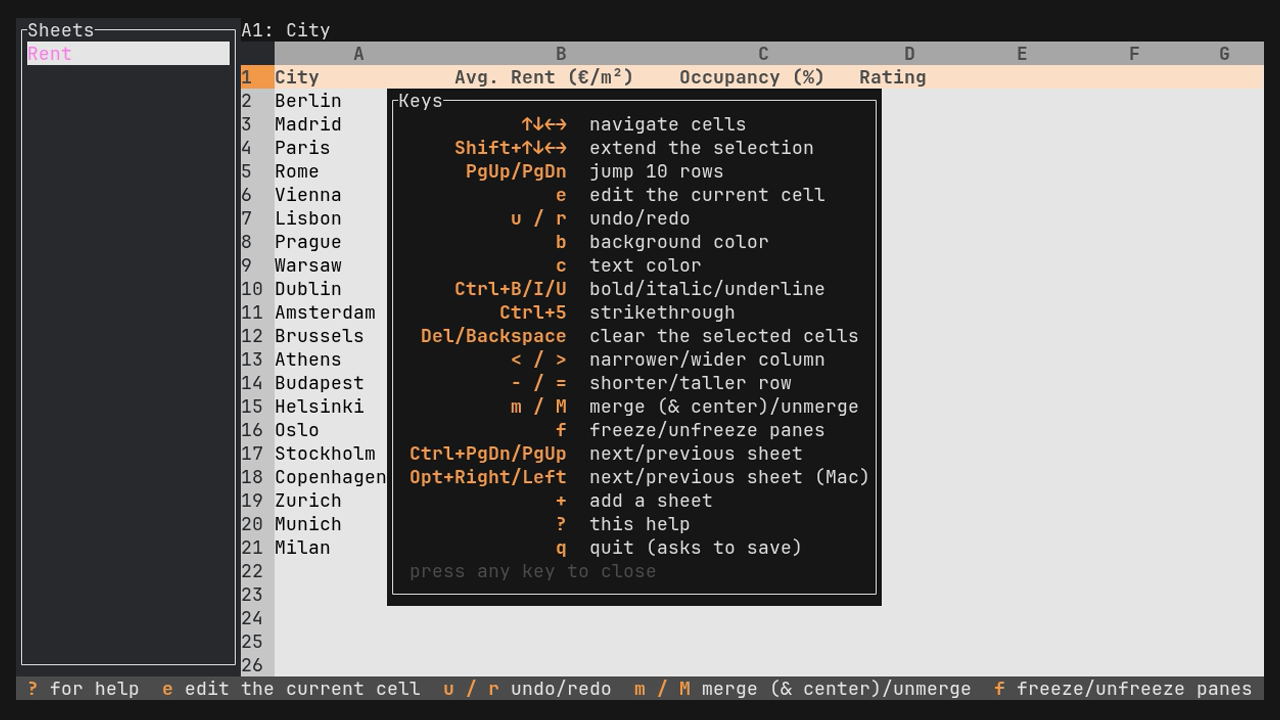
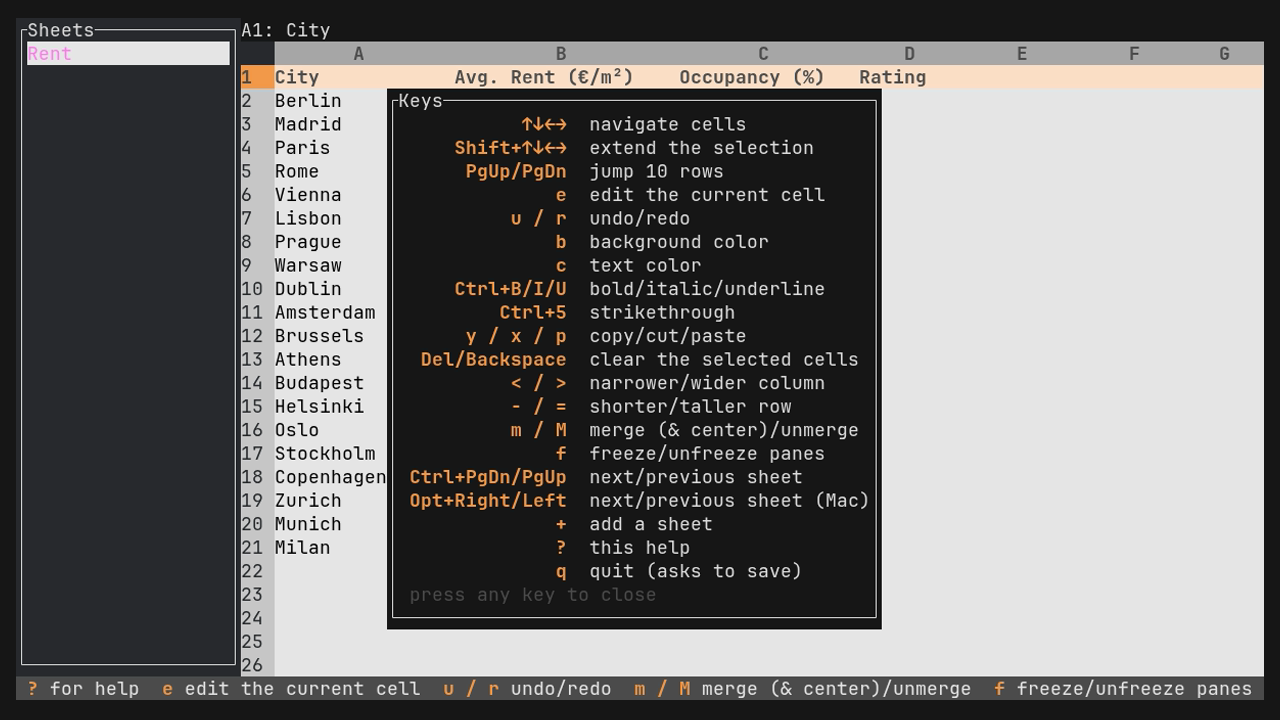
ADD: Copy, cut and paste (y/x/p, Ctrl+C/X/V)

Changed region(s): [[0.2812, 0.4583, 0.6875, 0.8861]]

diff --git a/src/main.rs b/src/main.rs
@@ -16,7 +16,7 @@ use ironcalc::{
         expressions::utils::number_to_column,
         new_empty::APPLICATION,
         types::{HorizontalAlignment, MergedCell},
-        Model, UserModel, COLUMN_WIDTH_FACTOR,
+        ClipboardData, Model, UserModel, COLUMN_WIDTH_FACTOR,
     },
     export::save_xlsx_to_writer,
     import::load_from_xlsx,
@@ -57,7 +57,7 @@ enum CursorMode {
     Help,
 }
 
-const HELP: [(&str, &str); 19] = [
+const HELP: [(&str, &str); 20] = [
     ("↑↓←→", "navigate cells"),
     ("Shift+↑↓←→", "extend the selection"),
     ("PgUp/PgDn", "jump 10 rows"),
@@ -67,6 +67,7 @@ const HELP: [(&str, &str); 19] = [
     ("c", "text color"),
     ("Ctrl+B/I/U", "bold/italic/underline"),
     ("Ctrl+5", "strikethrough"),
+    ("y / x / p", "copy/cut/paste"),
     ("Del/Backspace", "clear the selected cells"),
     ("< / >", "narrower/wider column"),
     ("- / =", "shorter/taller row"),
@@ -180,6 +181,8 @@ fn main() -> Result<(), Box<dyn std::error::Error>> {
     let mut color_picker_index = 0;
     // Shown in the status bar until the next key press (e.g. why a merge failed)
     let mut status_message: Option<String> = None;
+    // What `y`/`x` took, for `p`
+    let mut clipboard: Option<Copied> = None;
 
     let (tx, rx) = mpsc::channel();
     let tick_rate = Duration::from_millis(200);
@@ -981,7 +984,58 @@ fn main() -> Result<(), Box<dyn std::error::Error>> {
                         };
                         let ctrl = event.modifiers.contains(KeyModifiers::CONTROL);
                         let alt = event.modifiers.contains(KeyModifiers::ALT);
+                        // Vim style: y(ank) copies, x cuts, p pastes. Ctrl+C/X/V too.
+                        let clip = match (event.code, ctrl) {
+                            (KeyCode::Char('y'), false) | (KeyCode::Char('c'), true) => Some('y'),
+                            (KeyCode::Char('x'), _) => Some('x'),
+                            (KeyCode::Char('p'), false) | (KeyCode::Char('v'), true) => Some('p'),
+                            _ => None,
+                        };
                         match event.code {
+                            _ if clip.is_some() => {
+                                let sheet = selected_sheet as u32;
+                                let anchor = (selected_row_index as i32, selected_column_index);
+                                let result = if clip == Some('p') {
+                                    match &clipboard {
+                                        Some(c) => {
+                                            let cut = c.cut;
+                                            paste(&mut model, sheet, anchor, c).map(|_| {
+                                                // A cut can be pasted only once
+                                                if cut {
+                                                    clipboard = None;
+                                                }
+                                            })
+                                        }
+                                        None => Err("Nothing to paste".to_string()),
+                                    }
+                                } else {
+                                    let area = selected_area(
+                                        sheet,
+                                        (selected_row_index as i32, end_row as i32),
+                                        (selected_column_index, end_column),
+                                        whole_row,
+                                        whole_column,
+                                        &merged_cells,
+                                    );
+                                    copy_area(&mut model, anchor, &area, clip == Some('x')).map(
+                                        |c| {
+                                            to_system_clipboard(&c.text);
+                                            status_message = Some(
+                                                if c.cut {
+                                                    "Cut: press p to paste"
+                                                } else {
+                                                    "Copied"
+                                                }
+                                                .to_string(),
+                                            );
+                                            clipboard = Some(c);
+                                        },
+                                    )
+                                };
+                                if let Err(message) = result {
+                                    status_message = Some(message);
+                                }
+                            }
                             KeyCode::Char('q') => {
                                 popup_open = true;
                                 cursor_mode = CursorMode::Popup;
@@ -1644,6 +1698,66 @@ fn selected_area(
     }
 }
 
+/// What `y`/`x` took, ready for `p`.
+struct Copied {
+    sheet: u32,
+    range: (i32, i32, i32, i32),
+    data: ClipboardData,
+    /// Tab separated values, for the system clipboard
+    text: String,
+    cut: bool,
+}
+
+/// Copies (or marks for cutting) `area`. The engine copies its own selection,
+/// so that is set first. A cut only removes the source when it is pasted.
+fn copy_area(
+    model: &mut UserModel,
+    anchor: (i32, i32),
+    area: &Area,
+    cut: bool,
+) -> Result<Copied, String> {
+    model.set_selected_sheet(area.sheet)?;
+    model.set_selected_cell(anchor.0, anchor.1)?;
+    model.set_selected_range(
+        area.row,
+        area.column,
+        area.row + area.height - 1,
+        area.column + area.width - 1,
+    )?;
+    // The engine's `Clipboard` has private fields: read them through serde
+    let mut json = serde_json::to_value(model.copy_to_clipboard()?).map_err(|e| e.to_string())?;
+    let mut field = |name: &str| json[name].take();
+    let err = |e: serde_json::Error| e.to_string();
+    Ok(Copied {
+        sheet: serde_json::from_value(field("sheet")).map_err(err)?,
+        range: serde_json::from_value(field("range")).map_err(err)?,
+        data: serde_json::from_value(field("data")).map_err(err)?,
+        text: field("csv").as_str().unwrap_or_default().to_string(),
+        cut,
+    })
+}
+
+/// Pastes at `anchor`, adjusting references like Excel does.
+fn paste(
+    model: &mut UserModel,
+    sheet: u32,
+    anchor: (i32, i32),
+    copied: &Copied,
+) -> Result<(), String> {
+    model.set_selected_sheet(sheet)?;
+    model.set_selected_cell(anchor.0, anchor.1)?;
+    model.paste_from_clipboard(copied.sheet, copied.range, &copied.data, copied.cut)
+}
+
+/// Sends `text` to the system clipboard with the OSC 52 escape sequence
+/// (iTerm2, kitty, WezTerm, Alacritty, tmux...; ignored by terminals without it).
+fn to_system_clipboard(text: &str) {
+    use base64::{engine::general_purpose::STANDARD, Engine};
+    let mut out = io::stdout();
+    let _ = write!(out, "\x1b]52;c;{}\x07", STANDARD.encode(text));
+    let _ = out.flush();
+}
+
 /// Toggles a boolean font style (`font.b`, `font.i`, `font.u` or
 /// `font.strike`) over `range`. As in Excel the selected (anchor) cell decides
 /// the direction: if it already has the style, the whole range loses it,
@@ -1668,6 +1782,23 @@ fn toggle_font_style(
 #[cfg(test)]
 mod tests {
     use super::*;
+
+    #[test]
+    fn copy_paste_and_cut() {
+        let mut model = UserModel::new_empty("m", "en", "UTC", "en").unwrap();
+        model.set_user_input(0, 1, 1, "2").unwrap();
+        model.set_user_input(0, 1, 2, "=A1*10").unwrap();
+        let area = selection_area(0, (1, 1), (1, 2), false, false);
+        let copied = copy_area(&mut model, (1, 1), &area, false).unwrap();
+        assert_eq!(copied.text, "2\t20");
+        paste(&mut model, 0, (3, 1), &copied).unwrap();
+        // The relative reference moved with the paste
+        assert_eq!(model.get_cell_content(0, 3, 2).unwrap(), "=A3*10");
+        let cut = copy_area(&mut model, (1, 1), &area, true).unwrap();
+        paste(&mut model, 0, (5, 1), &cut).unwrap();
+        assert_eq!(model.get_cell_content(0, 5, 1).unwrap(), "2");
+        assert_eq!(model.get_cell_content(0, 1, 1).unwrap(), "");
+    }
 
     #[test]
     fn selection_area_spans_both_ends() {

diff --git a/README.md b/README.md
@@ -52,6 +52,10 @@ Keys:
 -   `c` to pick a text color for the current cell
 -   `Ctrl+B`/`Ctrl+I`/`Ctrl+U`/`Ctrl+5` to toggle bold/italic/underline/strikethrough
     on the selected cells, as in Excel (`Ctrl+2`/`Ctrl+4` also work for bold/underline)
+-   `y`/`x`/`p` to copy/cut/paste, as in vim (`Ctrl+C`/`Ctrl+X`/`Ctrl+V` too).
+    Formulas keep their relative references and formatting comes along. A cut
+    removes the source when you paste. The text is also sent to the system
+    clipboard in terminals that support it (iTerm2, kitty, WezTerm, Alacritty)
 -   `Delete` (or `Backspace`) to clear the contents of the selected cells
 -   `<`/`>` (or `,`/`.`) to make the current column narrower/wider
 -   `-`/`=` to make the current row shorter/taller
